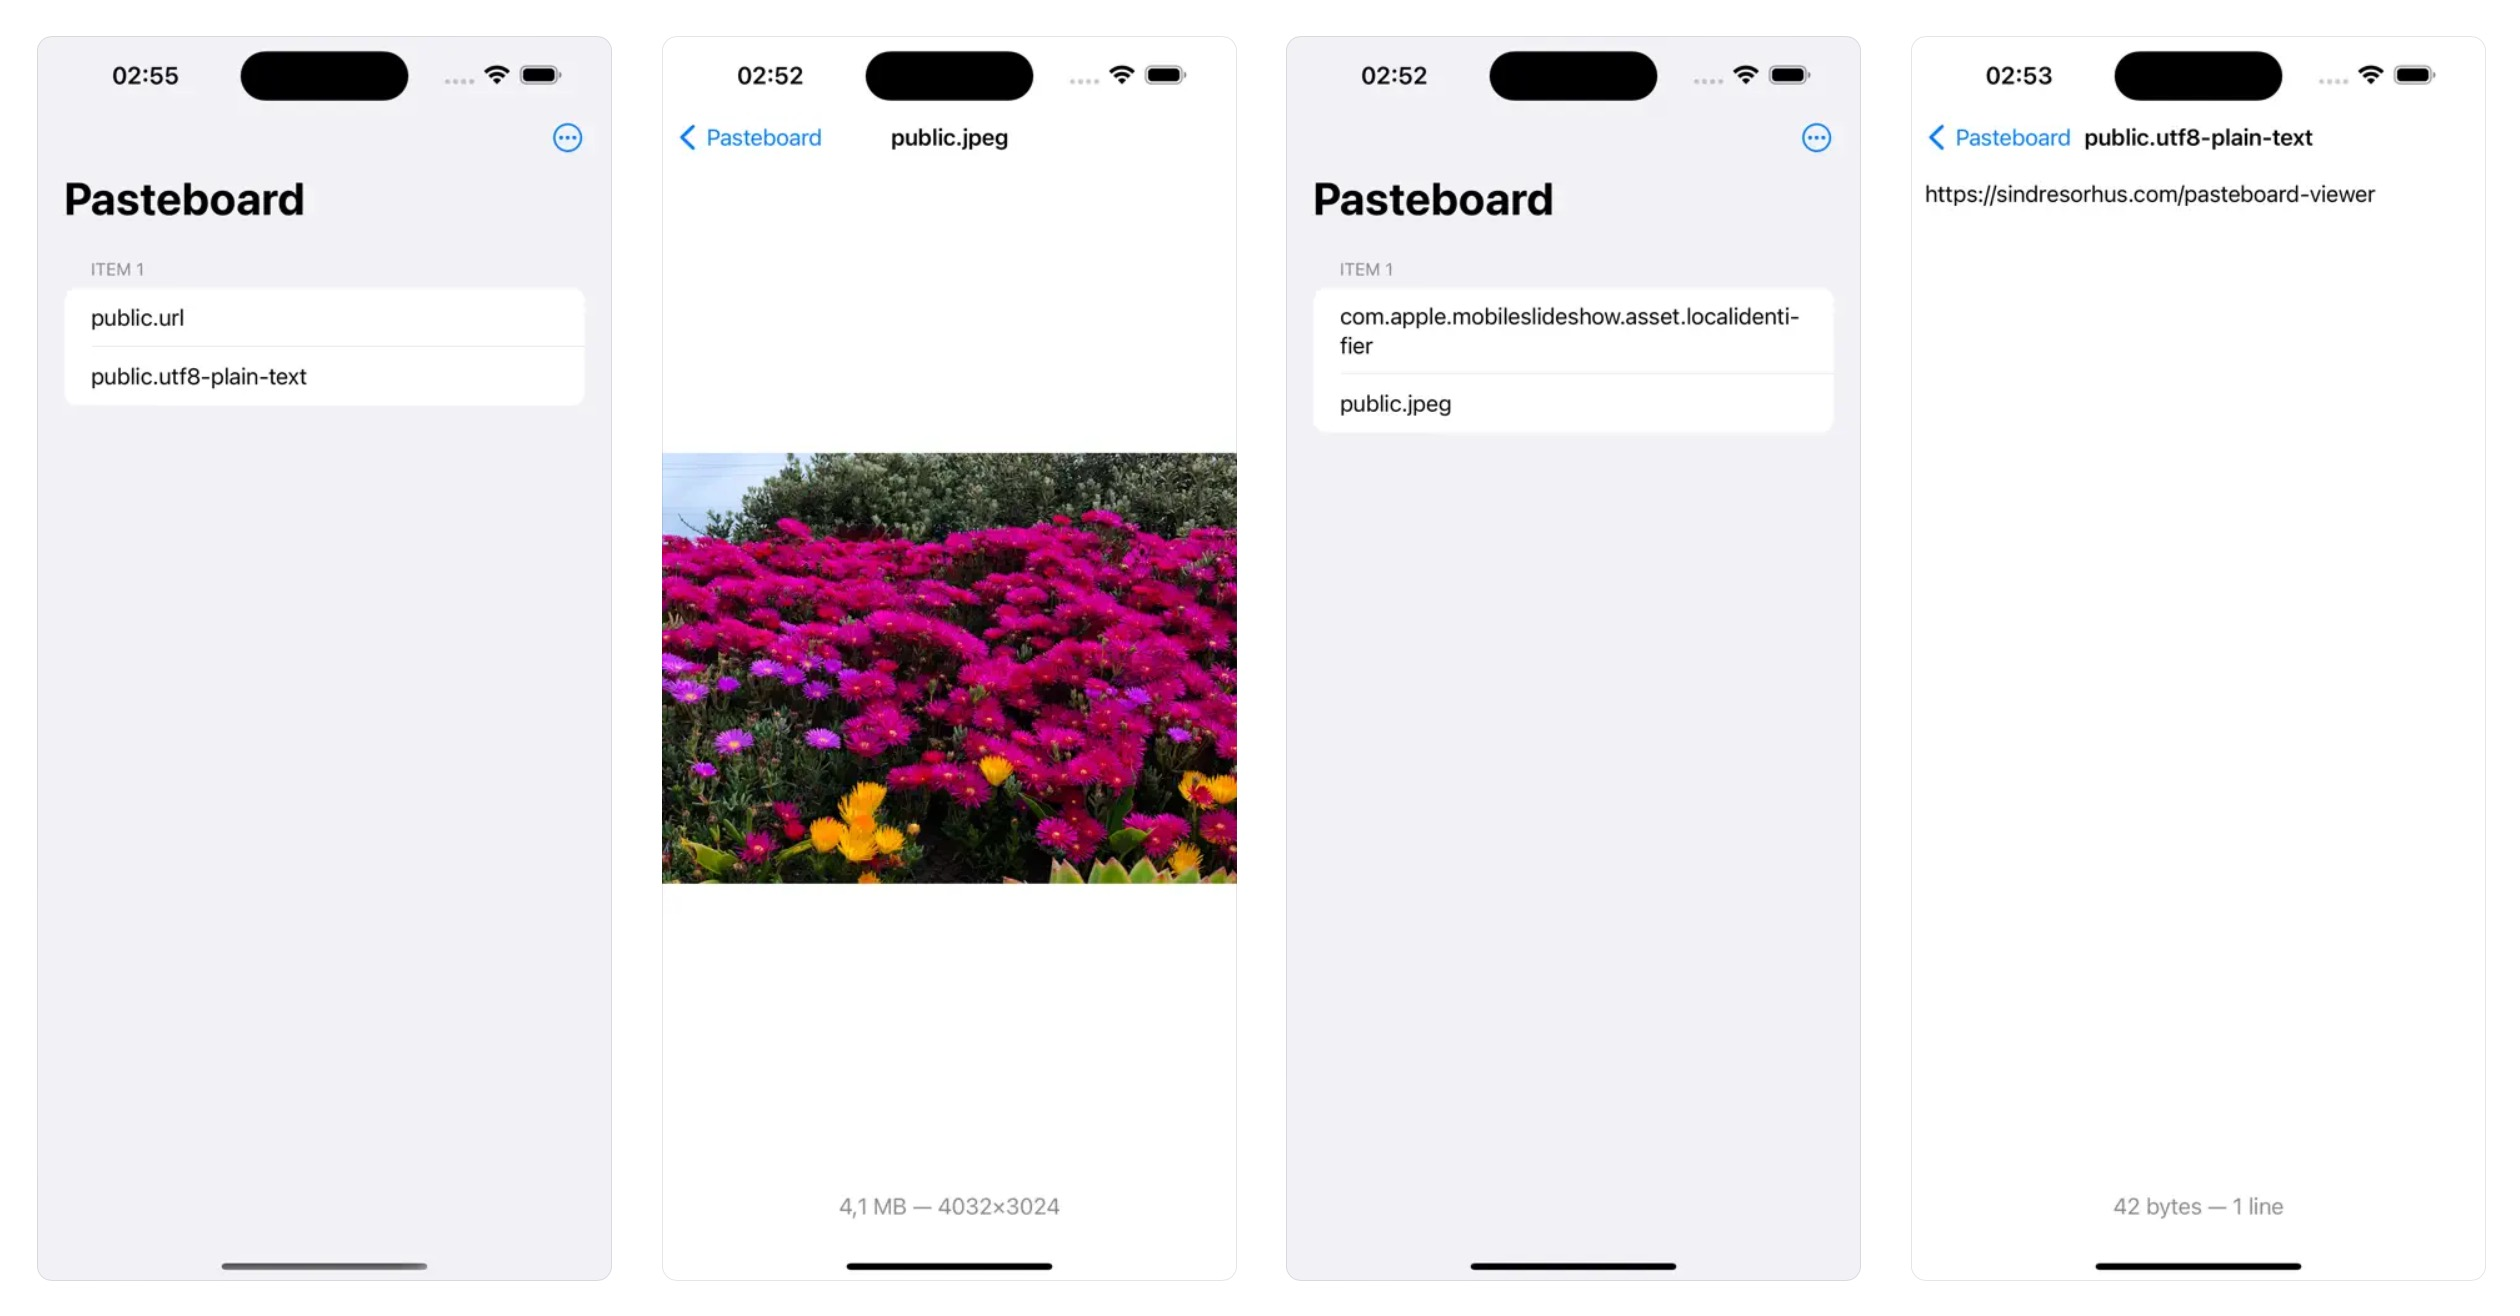
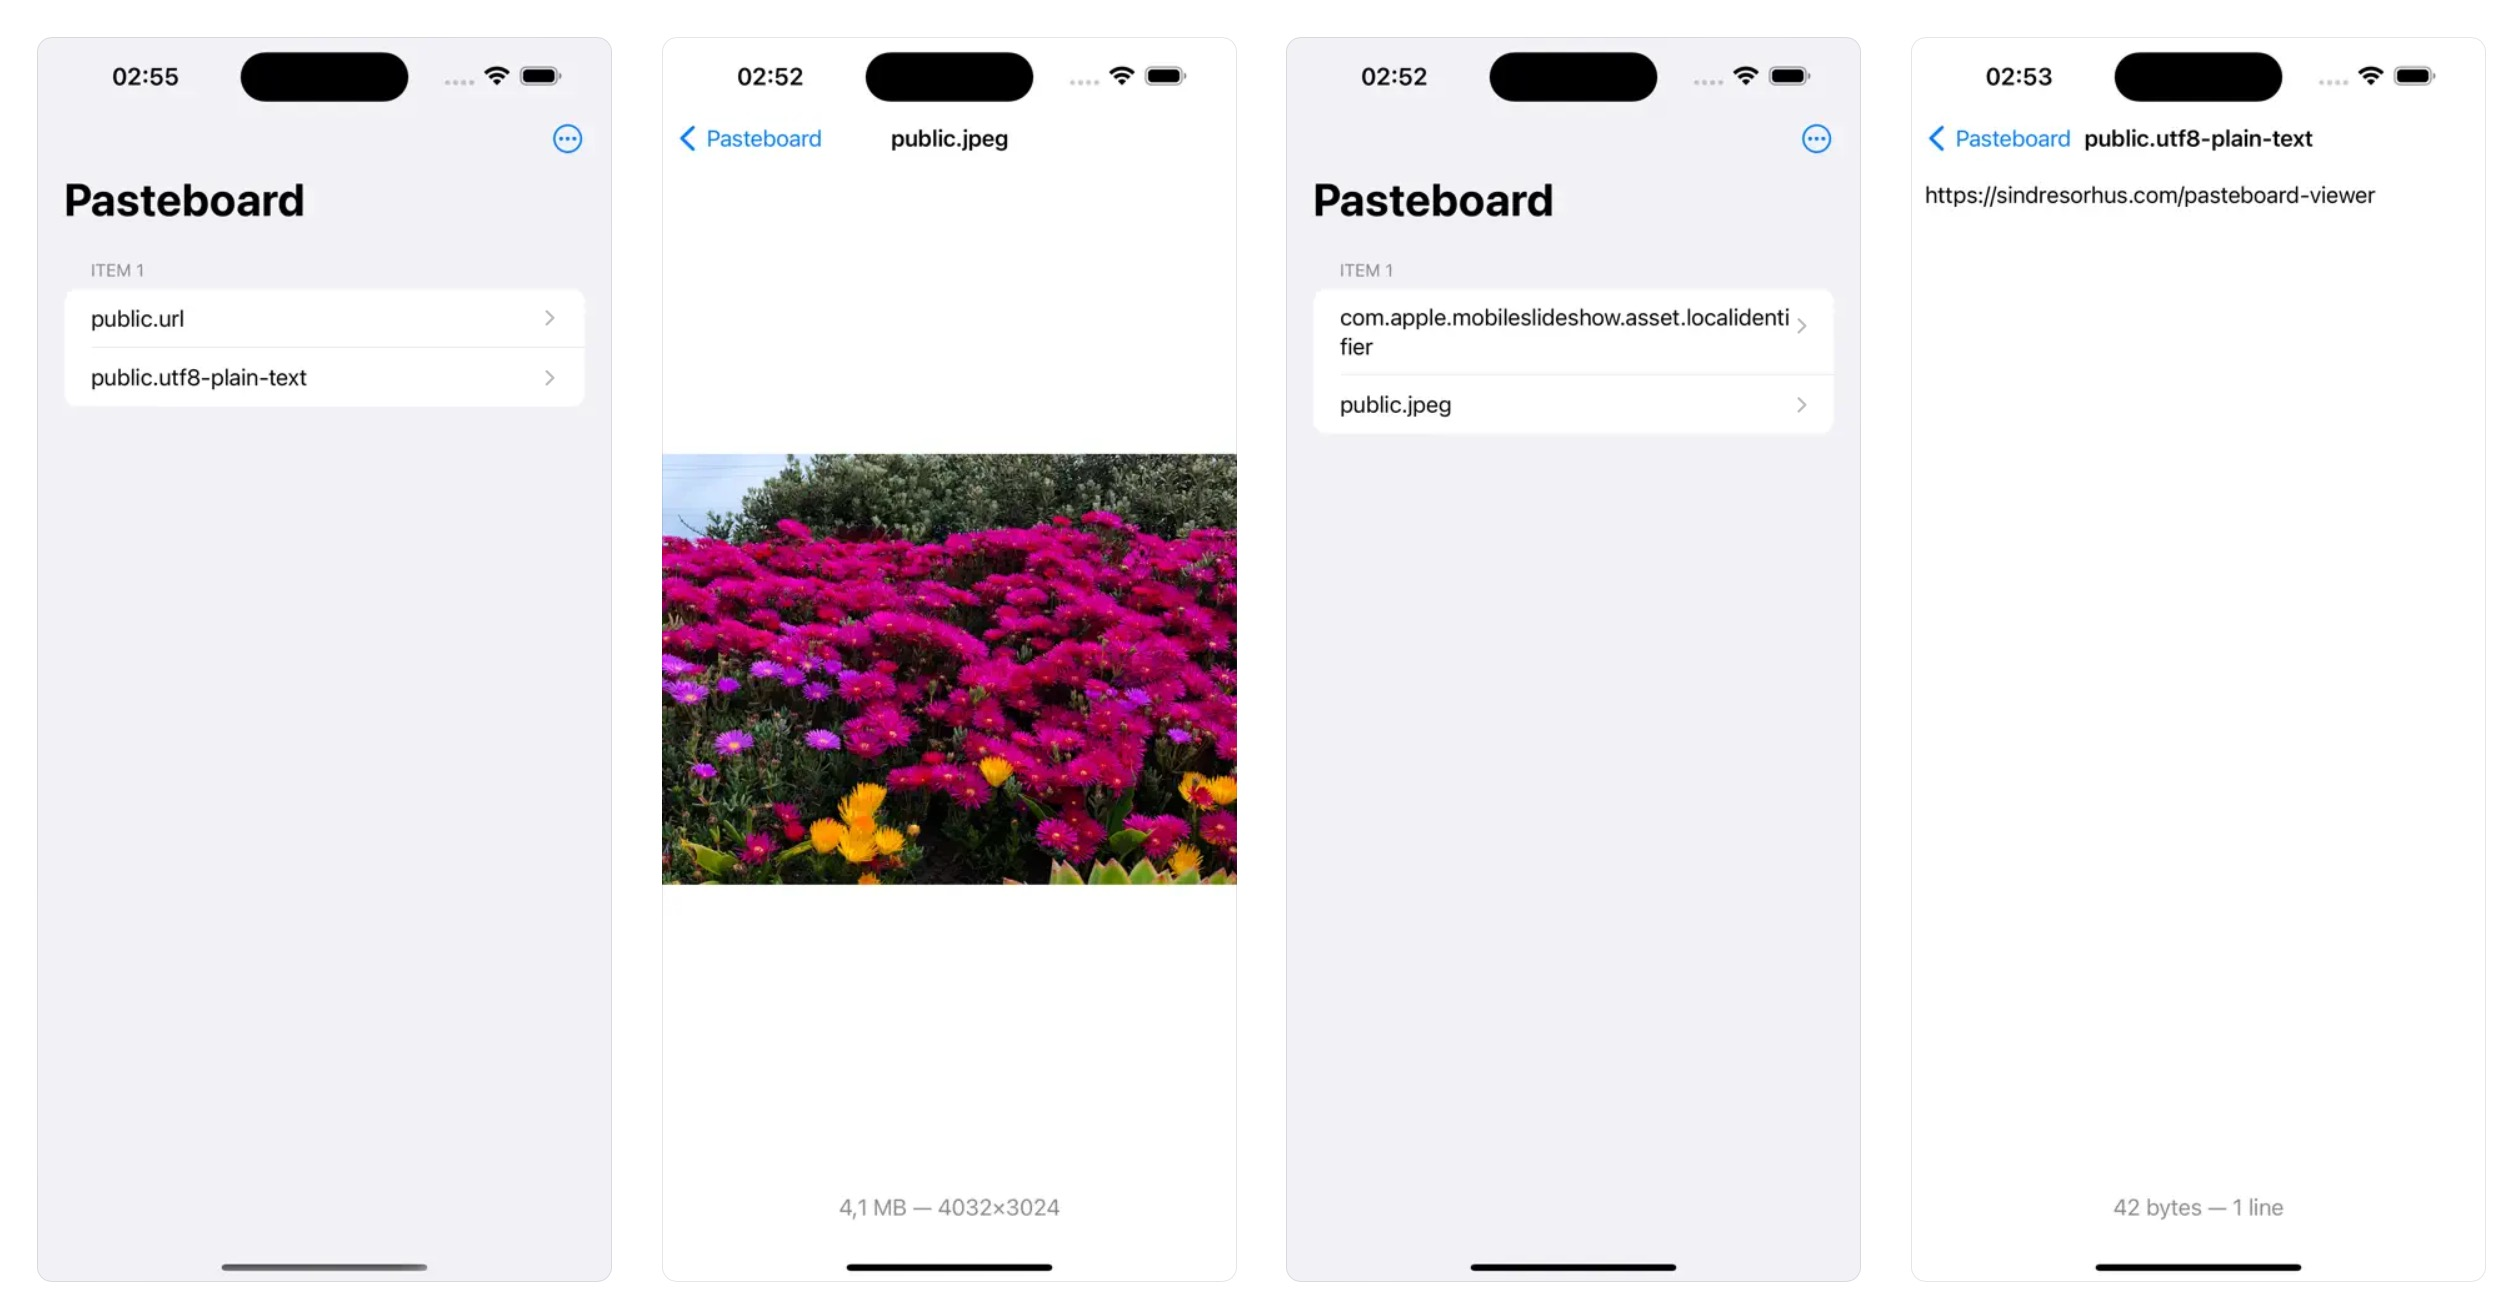
Tweaks

diff --git a/Pasteboard Viewer/MainScreen.swift b/Pasteboard Viewer/MainScreen.swift
@@ -183,6 +183,30 @@ private struct SidebarItemView: View {
 	let type: Pasteboard.Type_
 
 	var body: some View {
+		Group {
+			#if os(macOS)
+			contents
+			#else
+			NavigationLink(value: type) {
+				contents
+			}
+			#endif
+		}
+			.lineLimit(2)
+			.contextMenu {
+				CopyTypeIdentifierButtons(type: type)
+				Divider()
+				if type.xType == .fileURL {
+					#if os(macOS)
+					Button("Show in Finder") {
+						type.string()?.toURL?.showInFinder()
+					}
+					#endif
+				}
+			}
+	}
+
+	var contents: some View {
 		VStack(alignment: .leading) {
 			if let dynamicTitle = type.decodedDynamicTitleIfAvailable {
 				Text(dynamicTitle)
@@ -212,18 +236,6 @@ private struct SidebarItemView: View {
 				#endif
 			}
 		}
-			.lineLimit(2)
-			.contextMenu {
-				CopyTypeIdentifierButtons(type: type)
-				Divider()
-				if type.xType == .fileURL {
-					#if os(macOS)
-					Button("Show in Finder") {
-						type.string()?.toURL?.showInFinder()
-					}
-					#endif
-				}
-			}
 	}
 }
 
